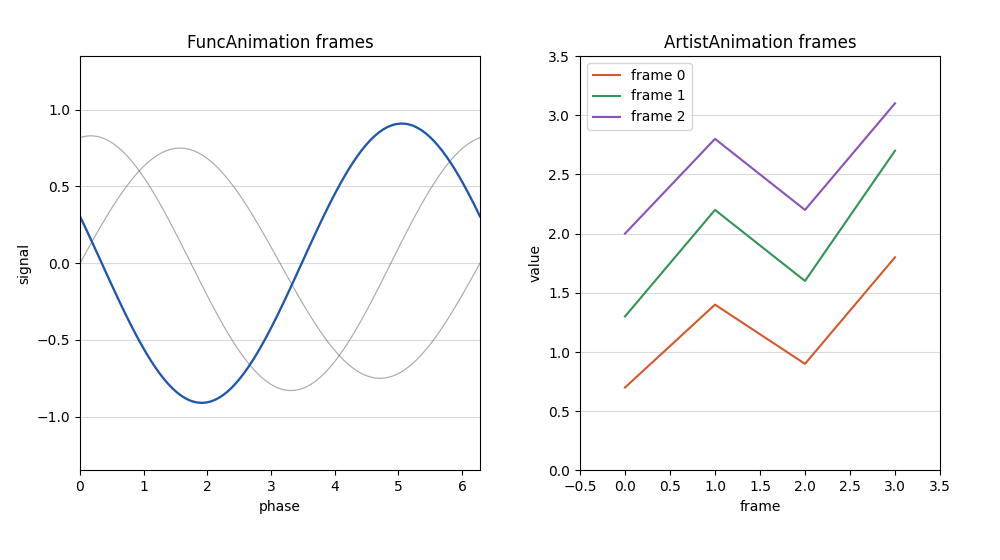
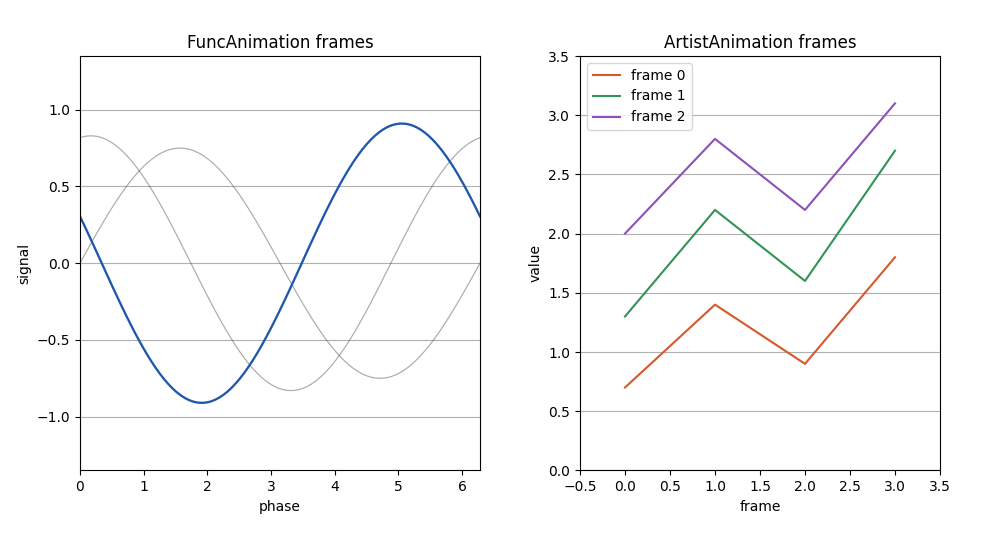
refactor: Simplify grid styling in animation gallery plots and update test image

diff --git a/internal/examplecatalog/catalog.go b/internal/examplecatalog/catalog.go
@@ -243,7 +243,7 @@ var cases = []Case{
 	{ID: "triangulation_gallery", Topic: "unstructured", Title: "Triangulation Gallery", Description: "A focused triangulation gallery covering triplot, tripcolor, tricontour, tricontourf, and masked pcolormesh behavior.", Optional: true, WebDemoID: "triangulation", Width: 1320, Height: 760, Showcase: true, MinPSNR: 18.0, MaxMeanAbs: 30.0, MaxRMSE: 2.9},
 	{ID: "arrays_showcase", Topic: "arrays", Title: "Matrix Helpers", Optional: true, WebDemoID: "matrix", Description: "MatShow, sparsity spy plots, annotated heatmaps, and colorbars.", Width: 1240, Height: 620, Showcase: true, GoBasicSmokeFamily: "matrix", MinPSNR: 30.0, MaxMeanAbs: 10.0, MaxRMSE: 3.1},
 	{ID: "widgets_gallery", Topic: "widgets", Title: "Widgets and Selectors", Description: "Buttons, sliders, range sliders, text boxes, check and radio buttons, selectors, cursor, and multi-cursor helpers.", Optional: true, Width: 1100, Height: 760, Showcase: true, GoBasicSmokeFamily: "widgets", MinPSNR: 10.0, MaxMeanAbs: 95.0, MaxRMSE: 5.0},
-	{ID: "animation_gallery", Topic: "animation", Title: "Animation Playback", Description: "FuncAnimation and ArtistAnimation setup with repeat, repeat-delay, blit, and explicit unsupported writer behavior.", Optional: true, WebDemoID: "animation", Width: 1000, Height: 560, Showcase: true, GoBasicSmokeFamily: "animation", MinPSNR: 10.0, MaxMeanAbs: 95.0, MaxRMSE: 4.3},
+	{ID: "animation_gallery", Topic: "animation", Title: "Animation Playback", Description: "FuncAnimation and ArtistAnimation setup with repeat, repeat-delay, blit, and explicit unsupported writer behavior.", Optional: true, WebDemoID: "animation", Width: 1000, Height: 560, Showcase: true, GoBasicSmokeFamily: "animation", MinPSNR: 10.0, MaxMeanAbs: 95.0, MaxRMSE: 1.5},
 	{ID: "animation_line_frame", Topic: "animation", Title: "Animated Line Frame", Description: "Deterministic frame-N capture of a traveling-wave FuncAnimation line plot.", FixtureOnly: true, Width: 640, Height: 360, MinPSNR: 45.0, MaxMeanAbs: 1.5, MaxRMSE: 4.0},
 	{ID: "animation_scatter_frame", Topic: "animation", Title: "Animated Scatter Frame", Description: "Deterministic frame-N capture of an orbiting scatter/collection animation with scalar-mapped marker colors.", FixtureOnly: true, Width: 640, Height: 360, MinPSNR: 45.0, MaxMeanAbs: 1.5, MaxRMSE: 4.0},
 	{ID: "animation_imshow_frame", Topic: "animation", Title: "Animated Heatmap Frame", Description: "Deterministic frame-N capture of a ripple imshow (heatmap) animation.", FixtureOnly: true, Width: 640, Height: 360, MinPSNR: 45.0, MaxMeanAbs: 1.5, MaxRMSE: 3.8},

diff --git a/test/parity/animation_gallery/plot.py b/test/parity/animation_gallery/plot.py
@@ -30,7 +30,7 @@ def animation_gallery(out_dir):
     ax.set_ylabel("signal")
     ax.set_xlim(0, 2 * math.pi)
     ax.set_ylim(-1.35, 1.35)
-    ax.grid(axis="y", color=(0.85, 0.85, 0.85), linewidth=0.8)
+    ax.grid(axis="y")
     for frame in [0, 4, 8]:
         x, y = _sine_frame(frame)
         color = (0.28, 0.28, 0.28, 0.45)
@@ -46,7 +46,7 @@ def animation_gallery(out_dir):
     ax2.set_ylabel("value")
     ax2.set_xlim(-0.5, 3.5)
     ax2.set_ylim(0, 3.5)
-    ax2.grid(axis="y", color=(0.85, 0.85, 0.85), linewidth=0.8)
+    ax2.grid(axis="y")
     series = [
         ([(0, 0.7), (1, 1.4), (2, 0.9), (3, 1.8)], (0.84, 0.35, 0.18), "frame 0"),
         ([(0, 1.3), (1, 2.2), (2, 1.6), (3, 2.7)], (0.20, 0.58, 0.34), "frame 1"),
